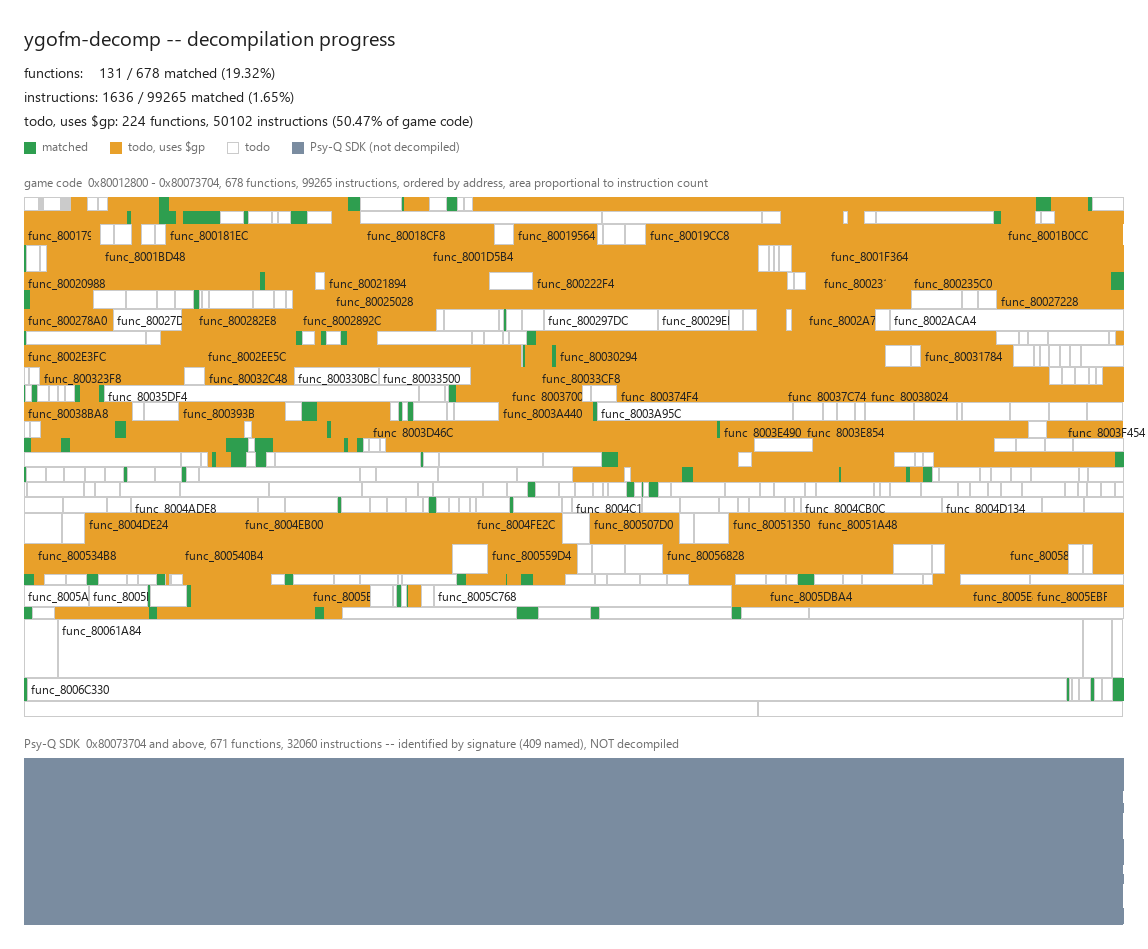
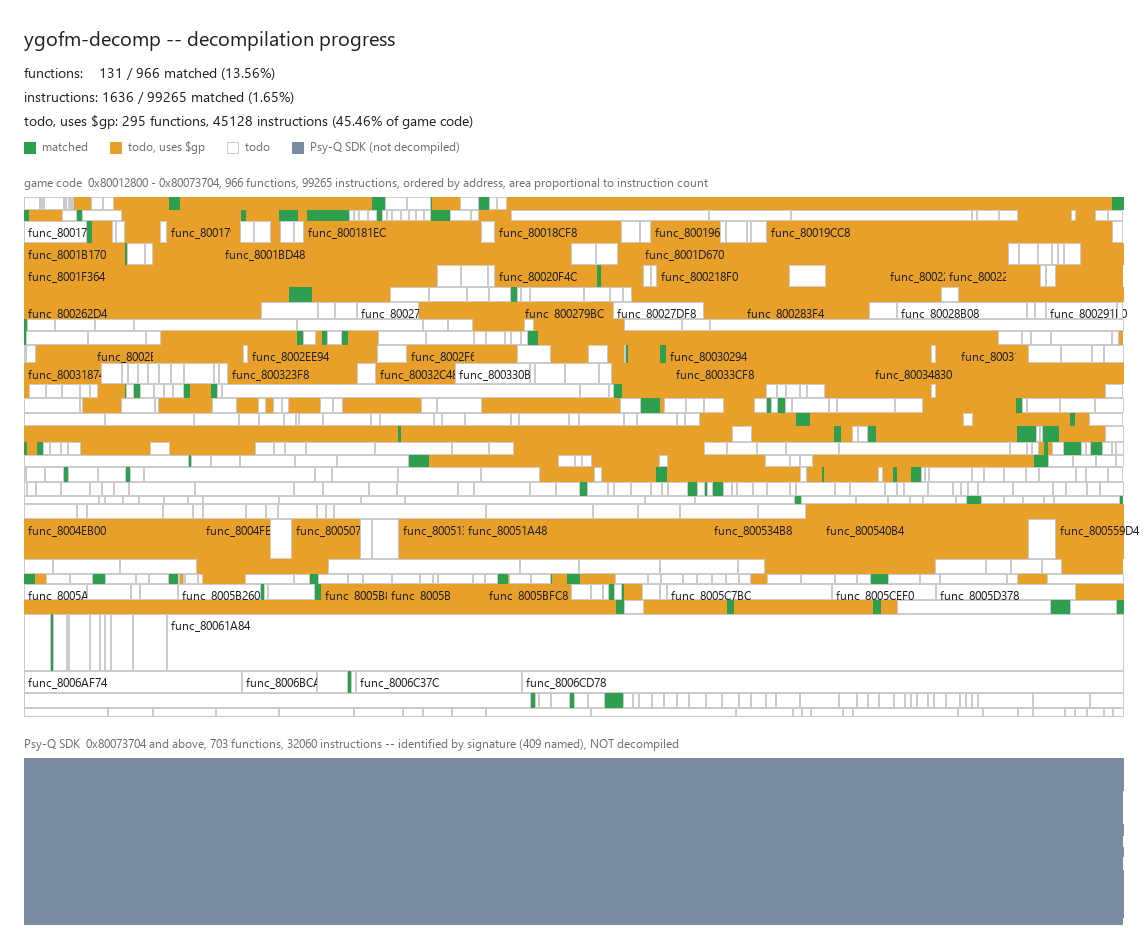
Split 320 merged functions; retract the size-concentration claim
split_funcs.py --write emits config/split_syms.txt, kept separate because
psyq_sigs.py --write rewrites symbol_addrs.txt wholesale and would erase the
splits. splat reads both paths. Build stays byte-identical with all 131 C
functions.

Corrected inventory: 966 game functions, not 678. The '37 functions hold 48.3%
of the code' claim was an artefact of merged spans -- it is 23 functions and
31.8%. Largest function 9,532 instructions, not 10,376. $gp share 45.8%, not
50.8%.

The automation ceiling claim moves too: candidates up to 250 instructions cover
49.6% of instructions, versus the 14.1% quoted when that was computed over an
80-instruction pool of merged spans.

Third case of a wrong structural claim surviving the hash gate.

Changed region(s): [[0.0, 0.1834, 1.0, 0.7945], [0.1829, 0.1222, 0.2134, 0.1528], [0.122, 0.0611, 0.1524, 0.0917]]

diff --git a/tools/split_funcs.py b/tools/split_funcs.py
@@ -30,7 +30,9 @@ REPO = os.path.dirname(os.path.dirname(os.path.abspath(__file__)))
 sys.path.insert(0, os.path.join(REPO, "tools"))
 
 ASM_DIR = os.path.join(REPO, "asm")
-SYMBOLS = os.path.join(REPO, "config", "symbol_addrs.txt")
+# A file of its own, NOT config/symbol_addrs.txt: tools/psyq_sigs.py --write
+# rewrites that one wholesale and would silently erase these split points.
+SYMBOLS = os.path.join(REPO, "config", "split_syms.txt")
 
 LABEL = re.compile(r"^(?:glabel|dlabel|alabel|jlabel)\s+(\S+)")
 END = re.compile(r"^endlabel\s+(\S+)")
@@ -107,18 +109,21 @@ def main():
     print("\n%d function(s) are currently invisible to the inventory" % total_hidden)
 
     if args.write and props:
-        existing = open(SYMBOLS).read() if os.path.exists(SYMBOLS) else ""
-        added = 0
-        with open(SYMBOLS, "a") as fp:
-            fp.write("\n// Split points found by tools/split_funcs.py: code that\n"
-                     "// continues past a jr $ra with no label of its own.\n")
-            for p in props:
+        # Rewritten from scratch each run: this tool is the authority on splits,
+        # so appending would duplicate entries every time it is re-run.
+        seen = set()
+        with open(SYMBOLS, "w") as fp:
+            fp.write("// Generated by tools/split_funcs.py -- do not edit.\n"
+                     "// Code that continues past a jr $ra with no label of its\n"
+                     "// own: functions spimdisasm merged into one span.\n")
+            for p in sorted(props, key=lambda q: q["addr"]):
                 name = "func_%08X" % p["addr"]
-                if name in existing:
+                if name in seen:
                     continue
+                seen.add(name)
                 fp.write("%s = 0x%08X; // type:func\n" % (name, p["addr"]))
-                added += 1
-        print("appended %d symbol(s) to %s" % (added, SYMBOLS))
+        added = len(seen)
+        print("wrote %d symbol(s) to %s" % (added, SYMBOLS))
         print("re-run splat and tools/build.py to pick them up")
     return 0
 

diff --git a/tools/gen_splat_config.py b/tools/gen_splat_config.py
@@ -46,7 +46,9 @@ lines = [
     "  build_path: build",
     "  asset_path: assets",
     "  ld_script_path: linker_scripts/main.ld",
-    "  symbol_addrs_path: config/symbol_addrs.txt",
+    "  symbol_addrs_path:",
+    "    - config/symbol_addrs.txt",
+    "    - config/split_syms.txt",
     "  find_file_boundaries: True",
     "  compiler: GCC",
     "  section_order: ['.text', '.data', '.rodata', '.bss']",

diff --git a/PLAN.md b/PLAN.md
@@ -850,3 +850,40 @@ lands): `D_8009B45C` (gp+0x554) main game state, `D_8009B458` (gp+0x550) sound
 driver work area with 16 x 24-byte channel records and a `SpuVoiceAttr`,
 `D_800F2C40[]` 0xE20-byte per-duelist records, `D_800E9EC8` pad block,
 `D_801A7AD8[]` 28-byte card records with bit 15 of `+0x16` as occupied.
+
+### 2026-07-25 — 320 merged functions split; the inventory was wrong
+
+`tools/split_funcs.py --write` now emits `config/split_syms.txt` (a file of its
+own, because `psyq_sigs.py --write` rewrites `symbol_addrs.txt` wholesale and
+would erase the splits), splat reads both, and the build stays byte-identical
+with all 131 C functions.
+
+**The corrected inventory, against what was previously reported:**
+
+| | before | after |
+|---|---|---|
+| game functions | 678 | **966** |
+| functions ≥500 insns | 37 | **23** |
+| share of code in those | 48.3% | **31.8%** |
+| largest function | 10,376 | **9,532** |
+| functions using `$gp` | 259 (50.8%) | 331 (45.8%) |
+
+```
+  0-9           68 funcs     390 insns    0.4%
+  10-24        244 funcs    4071 insns    4.1%
+  25-49        234 funcs    8312 insns    8.4%
+  50-99        191 funcs   13202 insns   13.3%
+  100-249      155 funcs   23239 insns   23.4%
+  250-499       51 funcs   18444 insns   18.6%
+  500+          23 funcs   31607 insns   31.8%
+```
+
+**Retraction.** The earlier claim that "37 functions hold 48.3% of the code" was
+an artefact of merged spans and is withdrawn. It is 23 functions and 31.8%, and
+the work is correspondingly less concentrated and more tractable than stated.
+The automation ceiling claim also moves: candidates up to 250 instructions now
+cover **49.6% of instructions**, against the 14.1% quoted when the ceiling was
+computed over an 80-instruction pool of merged functions.
+
+This is the third time a claim of mine survived the SHA-1 gate while being wrong
+about the program's structure. The gate proves bytes, not understanding.
